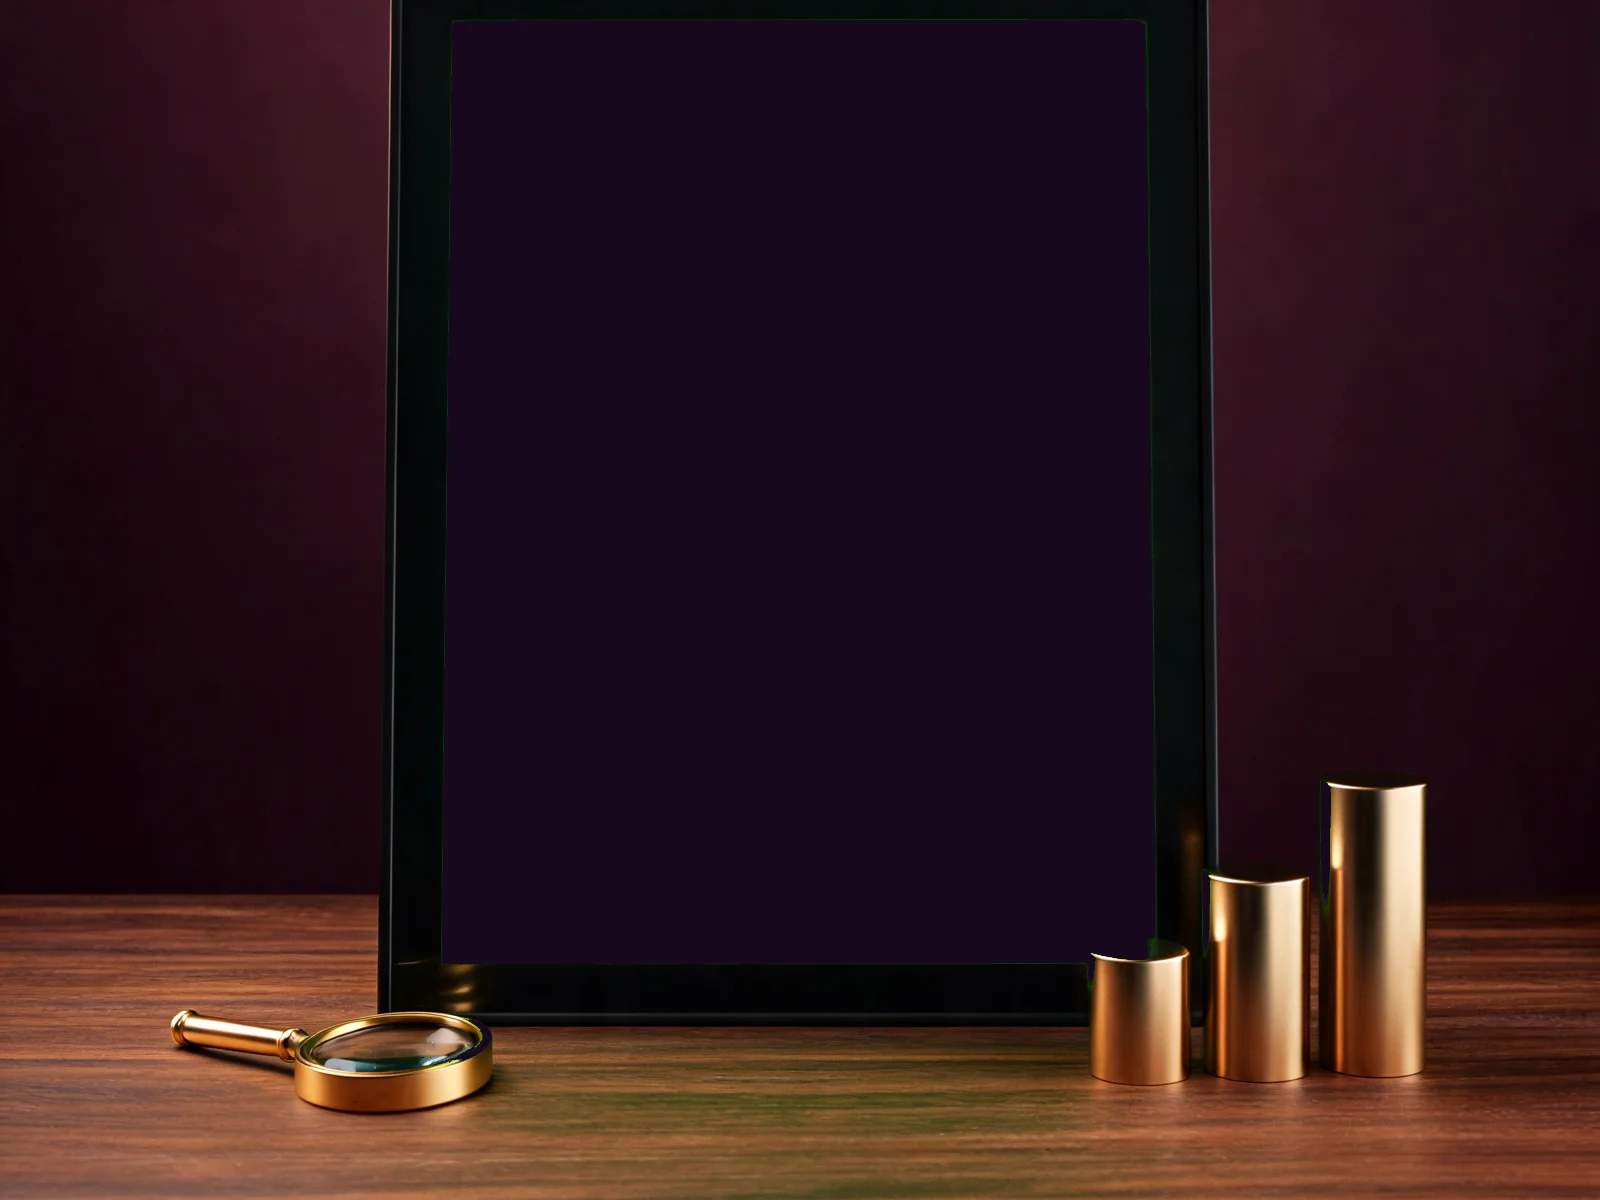
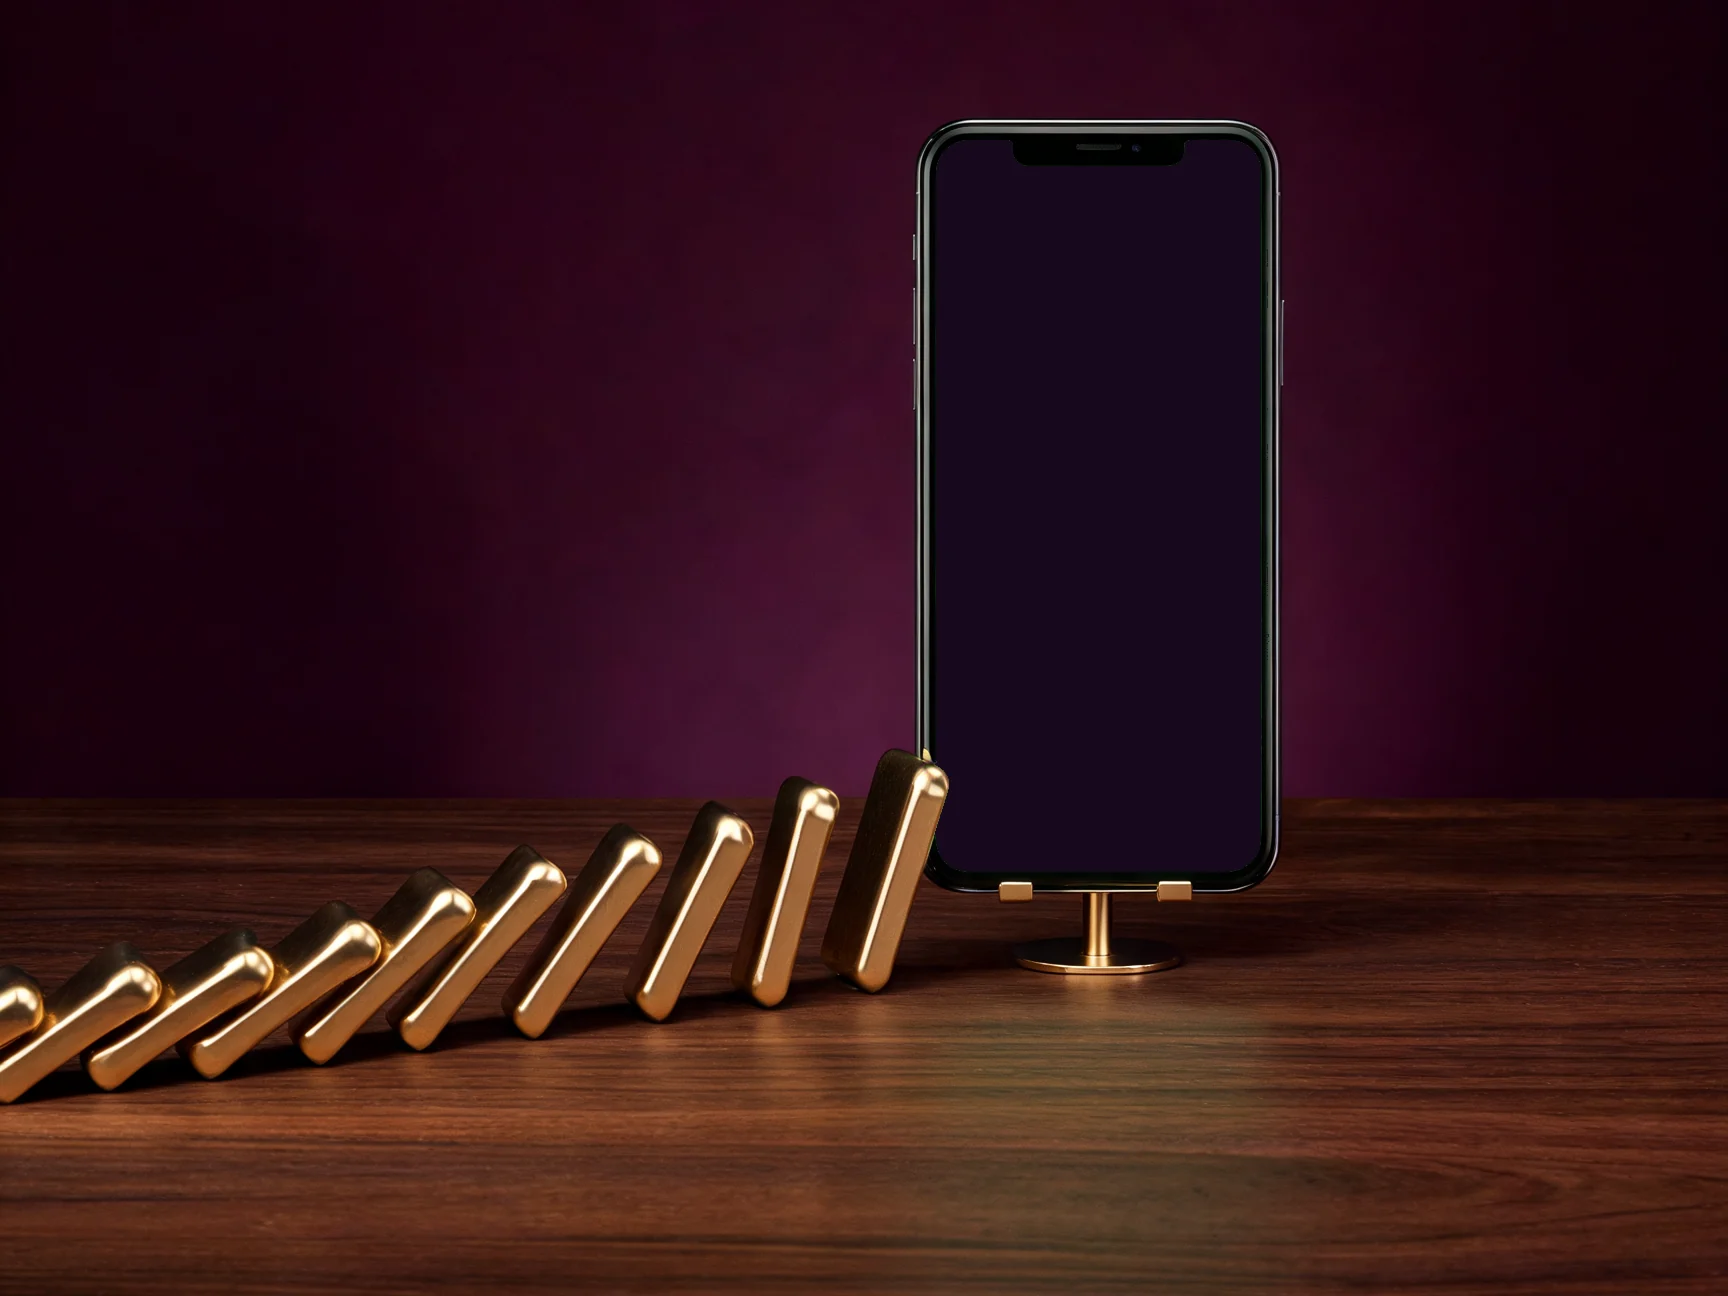
feat(servicios): swap fotos 01<->03, mas aire bajo la tablet, sin atenuado
- 01 automatizaciones = marco+podio con pipeline que se enciende
- 03 google ads = domino+telefono con dashboard vertical (barras+linea)
- 02 tablet recortada con mas espacio abajo
- fuera el dim de opacidad entre tarjetas; texto lateral del scroll entra
  con stagger (p/h3/small) y easing cinematografico

diff --git a/web/components/service-scenes.tsx b/web/components/service-scenes.tsx
@@ -1,8 +1,11 @@
 /**
  * Escenas animadas de las tarjetas de servicios (home).
- * Fondo: fotos del atelier con pantallas en chroma verde ya reemplazadas por
- * pantalla oscura (Python). El SVG animado se posiciona EXACTO sobre cada
- * pantalla usando el bounding box del chroma.
+ * Fondo: fotos quiet-luxury con pantallas chroma ya oscurecidas (Python).
+ * El SVG se posiciona EXACTO sobre cada pantalla (bbox del chroma, en %),
+ * por lo que escala responsive junto con la foto.
+ *
+ * Mapa actual: 01 automatizaciones = marco+podio · 02 webs = tablet
+ * · 03 google ads = dominó+teléfono.
  */
 
 type ScreenBox = {
@@ -35,71 +38,152 @@ function SceneFrame({
   )
 }
 
-/** 01 · Automatizaciones — flujo dorado corriendo por la pantalla del teléfono */
+/**
+ * 01 · Automatizaciones — dentro del marco: pipeline que se enciende solo
+ * (mensaje entra → proceso automático → hecho).
+ */
 export function AutomationScene() {
   return (
     <SceneFrame
       src="/media/servicios/servicio-01-automatizaciones.webp"
-      screen={{ left: '54.1%', top: '28.7%', width: '18.8%', height: '33.8%' }}
-      viewBox="0 0 300 675"
+      screen={{ left: '27.6%', top: '13%', width: '55.5%', height: '52%' }}
+      viewBox="0 0 300 351"
     >
       <path
         className="scene-flow"
-        d="M150 610 C 60 520, 240 430, 150 340 S 70 190, 150 90"
+        d="M150 330 V 268 M150 216 V 154 M150 102 V 40"
         fill="none"
         stroke="#D4AF37"
-        strokeWidth={7}
+        strokeWidth={3.5}
         strokeLinecap="round"
+        opacity={0.85}
       />
-      <circle cx={150} cy={610} r={17} fill="#D4AF37" className="scene-node" />
-      <circle cx={150} cy={340} r={17} fill="#D4AF37" className="scene-node scene-node--d2" />
-      <circle cx={150} cy={90} r={17} fill="#D4AF37" className="scene-node scene-node--d3" />
+
+      <g className="scene-pop">
+        <rect x={60} y={216} width={180} height={52} rx={14} fill="rgba(248,243,234,0.1)" stroke="rgba(212,175,55,0.5)" strokeWidth={1.4} />
+        <rect x={80} y={232} width={70} height={7} rx={3.5} fill="rgba(248,243,234,0.55)" />
+        <rect x={80} y={246} width={104} height={7} rx={3.5} fill="rgba(248,243,234,0.28)" />
+        <circle cx={214} cy={242} r={9} fill="#D4AF37" className="scene-node" />
+      </g>
+
+      <g className="scene-pop scene-pop--d2">
+        <rect x={60} y={102} width={180} height={52} rx={14} fill="rgba(123,63,160,0.28)" stroke="rgba(212,175,55,0.5)" strokeWidth={1.4} />
+        <path d="M150 112 l -9 17 h 8 l -4 16 13 -20 h -8 l 5 -13 z" fill="#F2D578" />
+        <rect x={112} y={138} width={76} height={6} rx={3} fill="rgba(248,243,234,0.4)" />
+      </g>
+
+      <g className="scene-pop scene-pop--d3">
+        <rect x={60} y={0} width={180} height={40} rx={14} fill="rgba(248,243,234,0.1)" stroke="rgba(212,175,55,0.5)" strokeWidth={1.4} />
+        <circle cx={110} cy={20} r={11} fill="none" stroke="#D4AF37" strokeWidth={2} />
+        <path d="M104 20 l 4 5 9 -10" fill="none" stroke="#D4AF37" strokeWidth={2.5} strokeLinecap="round" strokeLinejoin="round" />
+        <rect x={132} y={16} width={76} height={7} rx={3.5} fill="rgba(248,243,234,0.4)" />
+      </g>
     </SceneFrame>
   )
 }
 
-/** 02 · Landing pages — la página se construye dentro de la tablet */
+/**
+ * 02 · Landing pages — la página se construye por capas dentro de la tablet
+ * y un brillo la recorre al final.
+ */
 export function WebScene() {
   return (
     <SceneFrame
       src="/media/servicios/servicio-02-webs.webp"
-      screen={{ left: '25%', top: '39.4%', width: '47.6%', height: '46.1%' }}
+      screen={{ left: '25%', top: '18.2%', width: '47.6%', height: '46.1%' }}
       viewBox="0 0 400 484"
     >
-      <rect x={36} y={34} width={328} height={26} rx={8} fill="rgba(248,243,234,0.14)" className="scene-block" />
-      <rect x={36} y={76} width={200} height={128} rx={12} fill="url(#eln-hero)" className="scene-block scene-block--d2" />
-      <rect x={250} y={76} width={114} height={190} rx={12} fill="rgba(248,243,234,0.07)" className="scene-block scene-block--d2" />
-      <rect x={36} y={222} width={172} height={11} rx={5.5} fill="rgba(248,243,234,0.2)" className="scene-block scene-block--d3" />
-      <rect x={36} y={242} width={124} height={11} rx={5.5} fill="rgba(248,243,234,0.12)" className="scene-block scene-block--d3" />
-      <rect x={36} y={272} width={104} height={30} rx={15} fill="#D4AF37" className="scene-block scene-block--d4" />
+      <g className="scene-block">
+        <rect x={28} y={26} width={344} height={30} rx={10} fill="rgba(248,243,234,0.12)" />
+        <circle cx={48} cy={41} r={4.5} fill="rgba(248,243,234,0.4)" />
+        <circle cx={64} cy={41} r={4.5} fill="rgba(248,243,234,0.28)" />
+        <circle cx={80} cy={41} r={4.5} fill="rgba(248,243,234,0.18)" />
+        <rect x={104} y={33} width={180} height={16} rx={8} fill="rgba(248,243,234,0.08)" />
+      </g>
+
+      <g className="scene-block scene-block--d2">
+        <rect x={28} y={72} width={230} height={148} rx={14} fill="url(#eln-hero)" />
+        <rect x={48} y={98} width={120} height={13} rx={6.5} fill="rgba(248,243,234,0.75)" />
+        <rect x={48} y={120} width={168} height={10} rx={5} fill="rgba(248,243,234,0.35)" />
+        <rect x={48} y={172} width={88} height={26} rx={13} fill="#D4AF37" />
+      </g>
+
+      <g className="scene-block scene-block--d2">
+        <rect x={272} y={72} width={100} height={220} rx={14} fill="rgba(248,243,234,0.07)" />
+        <circle cx={322} cy={112} r={22} fill="rgba(212,175,55,0.35)" />
+        <rect x={290} y={148} width={64} height={8} rx={4} fill="rgba(248,243,234,0.3)" />
+        <rect x={290} y={164} width={48} height={8} rx={4} fill="rgba(248,243,234,0.18)" />
+      </g>
+
+      <g className="scene-block scene-block--d3">
+        <rect x={28} y={240} width={196} height={11} rx={5.5} fill="rgba(248,243,234,0.28)" />
+        <rect x={28} y={260} width={152} height={11} rx={5.5} fill="rgba(248,243,234,0.16)" />
+        <rect x={28} y={280} width={176} height={11} rx={5.5} fill="rgba(248,243,234,0.16)" />
+      </g>
+
+      <g className="scene-block scene-block--d4">
+        <rect x={28} y={322} width={130} height={36} rx={18} fill="#D4AF37" />
+        <rect x={48} y={336} width={90} height={9} rx={4.5} fill="rgba(24,19,26,0.6)" />
+        <circle cx={172} cy={340} r={7} fill="rgba(248,243,234,0.85)" className="scene-node" />
+      </g>
+
+      <rect x={-140} y={0} width={110} height={484} fill="url(#eln-sweep)" className="scene-sweep" />
+
       <defs>
         <linearGradient id="eln-hero" x1="0" y1="0" x2="1" y2="1">
           <stop offset="0" stopColor="rgba(123,63,160,0.62)" />
           <stop offset="1" stopColor="rgba(212,175,55,0.42)" />
+        </linearGradient>
+        <linearGradient id="eln-sweep" x1="0" y1="0" x2="1" y2="0">
+          <stop offset="0" stopColor="rgba(248,243,234,0)" />
+          <stop offset="0.5" stopColor="rgba(248,243,234,0.14)" />
+          <stop offset="1" stopColor="rgba(248,243,234,0)" />
         </linearGradient>
       </defs>
     </SceneFrame>
   )
 }
 
-/** 03 · Google Ads — gráfica dorada sobre el tablero (pendiente foto chroma) */
+/**
+ * 03 · Google Ads — en el teléfono del dominó: dashboard vertical,
+ * cada ficha que cae se vuelve resultado (barras + línea al pico).
+ */
 export function AdsScene() {
   return (
     <SceneFrame
       src="/media/servicios/servicio-03-google-ads.webp"
-      screen={{ left: '27.6%', top: '1.7%', width: '55.5%', height: '86.7%' }}
-      viewBox="0 0 300 351"
+      screen={{ left: '54.1%', top: '10.8%', width: '18.8%', height: '56.4%' }}
+      viewBox="0 0 300 675"
     >
+      <g stroke="rgba(248,243,234,0.1)" strokeWidth={1.5}>
+        <path d="M40 620 H 260" />
+        <path d="M40 500 H 260" />
+        <path d="M40 380 H 260" />
+        <path d="M40 260 H 260" />
+      </g>
+
+      <g fill="rgba(212,175,55,0.4)">
+        <rect x={58} y={540} width={44} height={80} rx={7} className="scene-bar" />
+        <rect x={128} y={480} width={44} height={140} rx={7} className="scene-bar scene-bar--d2" />
+        <rect x={198} y={400} width={44} height={220} rx={7} className="scene-bar scene-bar--d3" />
+      </g>
+
       <path
         className="scene-chart"
-        d="M40 300 L 95 262 L 140 276 L 185 216 L 230 176 L 264 110"
+        pathLength={340}
+        d="M52 560 L 120 470 L 190 350 L 245 180"
         fill="none"
         stroke="#D4AF37"
-        strokeWidth={5}
+        strokeWidth={6}
         strokeLinecap="round"
         strokeLinejoin="round"
       />
-      <circle cx={264} cy={110} r={10} fill="#D4AF37" className="scene-node" />
+      <g fill="#F2D578">
+        <circle cx={120} cy={470} r={9} className="scene-pop" />
+        <circle cx={190} cy={350} r={9} className="scene-pop scene-pop--d2" />
+      </g>
+      <circle cx={245} cy={180} r={13} fill="#D4AF37" className="scene-node" />
+      <circle cx={245} cy={180} r={24} fill="none" stroke="rgba(212,175,55,0.5)" strokeWidth={2} className="scene-node scene-node--d2" />
     </SceneFrame>
   )
 }

diff --git a/web/app/globals.css b/web/app/globals.css
@@ -634,11 +634,28 @@ h1, h2, h3,
   min-height: 68vh;
   align-content: center;
   opacity: .28;
-  transition: opacity .45s ease;
+  transition: opacity .6s cubic-bezier(0.22, 0.61, 0.36, 1);
 }
 
 .immersive-story__chapters article.is-active {
   opacity: 1;
+}
+
+/* transición de texto lateral: el bloque entra deslizando con stagger */
+.immersive-story__chapters article > p,
+.immersive-story__chapters article h3,
+.immersive-story__chapters article small {
+  transform: translateY(16px);
+  transition: transform .7s cubic-bezier(0.22, 0.61, 0.36, 1);
+}
+
+.immersive-story__chapters article h3 { transition-delay: .07s; }
+.immersive-story__chapters article small { transition-delay: .14s; }
+
+.immersive-story__chapters article.is-active > p,
+.immersive-story__chapters article.is-active h3,
+.immersive-story__chapters article.is-active small {
+  transform: translateY(0);
 }
 
 .immersive-story__chapters article > span {
@@ -801,15 +818,8 @@ h1, h2, h3,
   box-shadow: 0 30px 60px rgb(26 15 61 / .35), 0 0 40px rgb(212 175 55 / .12);
 }
 
-/* interacción entre tarjetas: la activa brilla, las otras se calman */
-.home-products__rail:has(.home-product:hover) .home-product:not(:hover) {
-  opacity: .55;
-  filter: saturate(.85);
-}
-
-.home-products__rail .home-product {
-  transition: opacity .5s ease, filter .5s ease;
-}
+/* (el atenuado de las tarjetas no-activas se retiró a pedido de Evelyn:
+   la interacción vive en el lift + glow de la tarjeta activa) */
 
 /* 01 · hilo que fluye */
 .scene-flow {
@@ -1270,6 +1280,13 @@ h1, h2, h3,
     animation: none;
     transform: none;
     opacity: 1;
+  }
+
+  .immersive-story__chapters article > p,
+  .immersive-story__chapters article h3,
+  .immersive-story__chapters article small {
+    transform: none;
+    transition: none;
   }
 }
 
